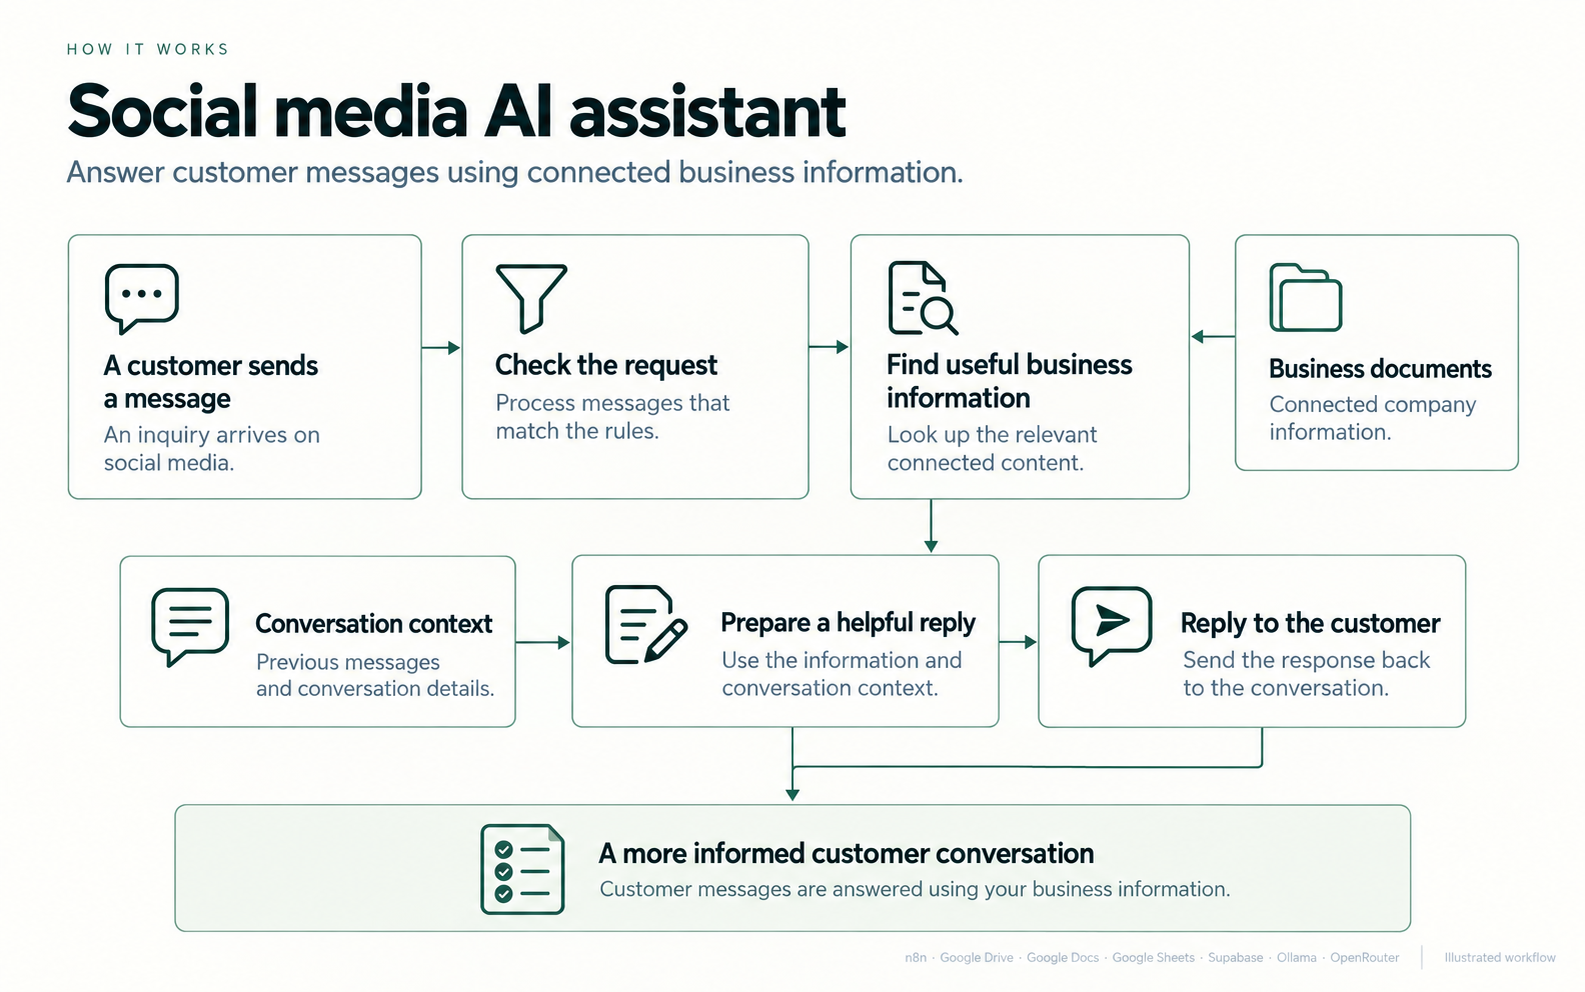
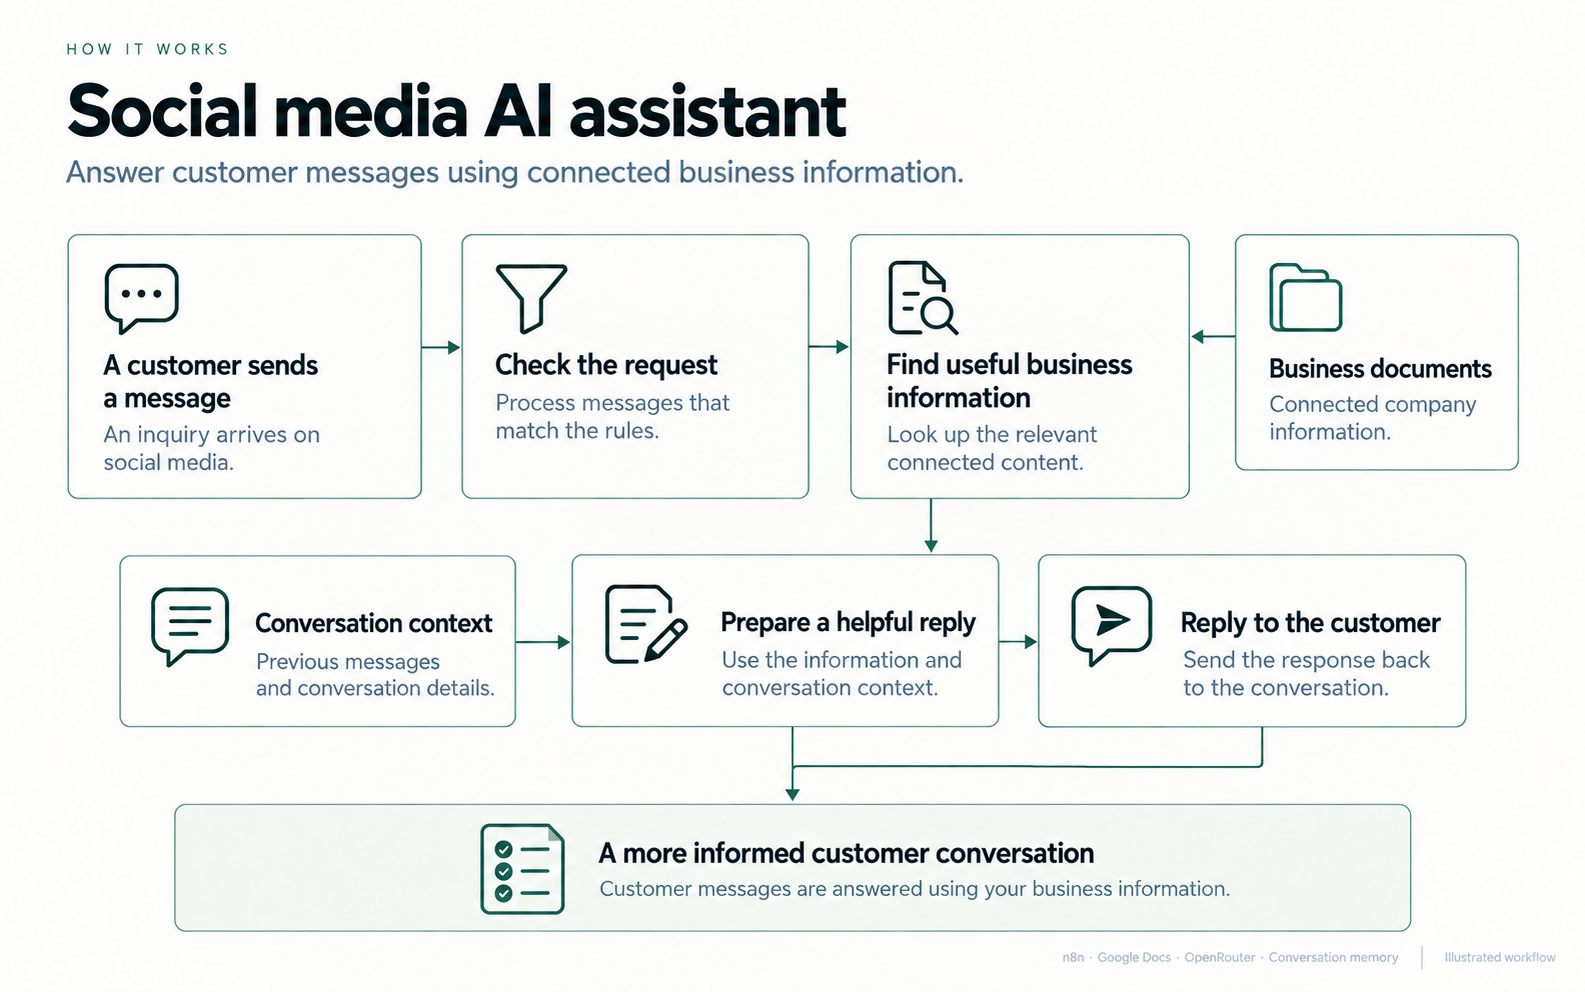
Add full workflow illustrations to all case study pages

diff --git a/src/content/workflow-illustrations.ts b/src/content/workflow-illustrations.ts
@@ -1,0 +1,101 @@
+/** Client-friendly illustrations shared by the portfolio routes and standalone demos. */
+export const WORKFLOW_STYLESHEET_PATH = '/styles/workflow-illustration.css'
+
+type WorkflowIllustration = {
+  title: string
+  src: string
+  width: number
+  height: number
+  summary: string
+}
+
+export const workflowIllustrations: Record<string, WorkflowIllustration> = {
+  "site-1": {
+    title: "AI Receptionist",
+    src: "/images/workflows/ai-receptionist-portfolio.png",
+    width: 1586,
+    height: 992,
+    summary: "A customer calls, checks available times, and books, reschedules, or cancels an appointment. The calendar and records are updated.",
+  },
+  "site-2": {
+    title: "Asana CRM Lead Engagement",
+    src: "/images/workflows/asana-crm-lead-engagement-portfolio.png",
+    width: 1586,
+    height: 992,
+    summary: "An Asana lead status change starts the appropriate next step: client setup, a follow-up, a welcome email, or service recommendations.",
+  },
+  "site-3": {
+    title: "Social Media AI Assistant",
+    src: "/images/workflows/social-media-ai-assistant-portfolio.png",
+    width: 1585,
+    height: 992,
+    summary: "An incoming message is checked, relevant business documents are consulted, and a reply is prepared using the conversation context.",
+  },
+  "site-4": {
+    title: "Automated Lead Enrichment",
+    src: "/images/workflows/automated-lead-enrichment-portfolio.png",
+    width: 1586,
+    height: 992,
+    summary: "Lead details are researched and assessed, then routed to priority follow-up, a team notification, or manual review.",
+  },
+  "site-5": {
+    title: "Gmail Attachment Organizer",
+    src: "/images/workflows/gmail-attachment-organizer-portfolio.png",
+    width: 1586,
+    height: 992,
+    summary: "Email attachments are read, given clear filenames, saved to Google Drive, logged in a spreadsheet, and followed by an email notification.",
+  },
+  "site-6": {
+    title: "Social Media Content Repurposing",
+    src: "/images/workflows/social-media-content-repurposing-portfolio.png",
+    width: 1586,
+    height: 992,
+    summary: "A source file becomes a transcript and post drafts. Content checks and publishing rules determine which posts are sent to Facebook.",
+  },
+  "site-7": {
+    title: "Xero Transaction Export to Asana",
+    src: "/images/workflows/xero-transaction-export-to-asana-portfolio.png",
+    width: 1586,
+    height: 992,
+    summary: "A completed Asana task starts a Xero transaction export. The details are organized in a spreadsheet, attached to the related task, and the temporary rows are cleared.",
+  },
+  "site-8": {
+    title: "HR Job Posting and Candidate Review Assistant",
+    src: "/images/workflows/hr-candidate-review-assistant-portfolio.png",
+    width: 1586,
+    height: 992,
+    summary: "Applications are compared with role requirements. Potential matches move through questions, email, and interview scheduling; applicant records support the hiring team’s review.",
+  },
+  "site-9": {
+    title: "RAG-Powered AI Assistant",
+    src: "/images/workflows/rag-powered-ai-assistant-portfolio.png",
+    width: 1586,
+    height: 992,
+    summary: "Document changes keep reference information current. When a question arrives, the assistant finds relevant information and uses it to prepare an answer.",
+  },
+}
+
+const escapeHtml = (value: string) => value.replaceAll('&', '&amp;').replaceAll('<', '&lt;').replaceAll('>', '&gt;').replaceAll('"', '&quot;')
+
+/** Keep one section template for the SPA and emitted standalone HTML. */
+export function withWorkflowIllustration(source: string, id: string): string {
+  const illustration = workflowIllustrations[id]
+  if (!illustration || source.includes('id="workflow-illustration"')) return source
+  const title = escapeHtml(illustration.title)
+  const section = `
+      <section class="panel workflow-illustration" id="workflow-illustration" aria-labelledby="workflow-illustration-title">
+        <p class="eyebrow">Workflow overview</p>
+        <h2 class="workflow-illustration__title" id="workflow-illustration-title">How it works</h2>
+        <p class="workflow-illustration__intro">Follow the main steps from start to finish.</p>
+        <figure class="workflow-illustration__figure">
+          <a class="workflow-illustration__frame" href="${illustration.src}" target="_blank" rel="noopener noreferrer" aria-label="Open full-size ${title} illustration (new tab)">
+            <img src="${illustration.src}" width="${illustration.width}" height="${illustration.height}" loading="lazy" decoding="async" alt="Client-friendly workflow overview for ${title}" />
+            <span class="workflow-illustration__open">Open full-size illustration <svg width="16" height="16" viewBox="0 0 24 24" fill="none" stroke="currentColor" stroke-width="1.75" stroke-linecap="round" stroke-linejoin="round" aria-hidden="true"><path d="M14 4h6v6M20 4L10 14" /><path d="M20 14v6H4V4h6" /></svg></span>
+          </a>
+          <figcaption class="workflow-illustration__caption">${escapeHtml(illustration.summary)}</figcaption>
+        </figure>
+      </section>`
+  return source
+    .replace('</head>', `    <link rel="stylesheet" href="${WORKFLOW_STYLESHEET_PATH}" />\n  </head>`)
+    .replace('</header>', `</header>\n${section}`)
+}

diff --git a/scripts/case-study-demos.ts b/scripts/case-study-demos.ts
@@ -1,6 +1,7 @@
 import { readFileSync, readdirSync } from 'node:fs'
 import { fileURLToPath } from 'node:url'
 import type { Plugin } from 'vite'
+import { withWorkflowIllustration, WORKFLOW_STYLESHEET_PATH } from '../src/content/workflow-illustrations.ts'
 
 /** Serve and publish the canonical case-study documents at their original demo URLs.
  * The portfolio imports the same files as lazy raw modules, so copy edits have one source.
@@ -8,12 +9,17 @@ import type { Plugin } from 'vite'
 export function caseStudyDemos(): Plugin {
   const directory = new URL('../src/content/case-studies/', import.meta.url)
   const files = readdirSync(directory).filter((file) => /^site-\d+\.html$/.test(file))
-  const read = (file: string) => readFileSync(new URL(file, directory), 'utf8')
+  const stylesheet = new URL('../src/features/case-study/workflow-illustration.css', import.meta.url)
+  const read = (file: string) => withWorkflowIllustration(readFileSync(new URL(file, directory), 'utf8'), file.replace(/\.html$/, ''))
   return {
     name: 'case-study-demos',
     configureServer(server) {
       server.middlewares.use((request, response, next) => {
         const path = new URL(request.url ?? '/', 'http://localhost').pathname
+        if (path === WORKFLOW_STYLESHEET_PATH) {
+          response.setHeader('Content-Type', 'text/css; charset=utf-8')
+          return response.end(readFileSync(stylesheet, 'utf8'))
+        }
         const file = /^\/demos\/sites\/(site-\d+\.html)$/.exec(path)?.[1]
         if (!file || !files.includes(file)) return next()
         response.setHeader('Content-Type', 'text/html; charset=utf-8')
@@ -21,9 +27,11 @@ export function caseStudyDemos(): Plugin {
       })
     },
     buildStart() {
+      this.addWatchFile(fileURLToPath(stylesheet))
       files.forEach((file) => this.addWatchFile(fileURLToPath(new URL(file, directory))))
     },
     generateBundle() {
+      this.emitFile({ type: 'asset', fileName: WORKFLOW_STYLESHEET_PATH.slice(1), source: readFileSync(stylesheet, 'utf8') })
       files.forEach((file) => this.emitFile({ type: 'asset', fileName: `demos/sites/${file}`, source: read(file) }))
     },
   }

diff --git a/src/features/case-study/workflow-illustration.css b/src/features/case-study/workflow-illustration.css
@@ -1,0 +1,62 @@
+/* Shared with standalone demos. Keep the complete image in a frame; never crop it. */
+.workflow-illustration {
+  margin-block: 24px;
+  color: var(--ink);
+  scroll-margin-top: 72px;
+}
+.workflow-illustration__title {
+  margin: 6px 0 0;
+  font-size: clamp(22px, 3vw, 30px);
+  font-weight: 600;
+  line-height: 1.2;
+  letter-spacing: -0.025em;
+}
+.workflow-illustration__intro {
+  margin: 10px 0 20px;
+  color: var(--ink-2);
+  font-size: 15px;
+  line-height: 1.6;
+}
+.workflow-illustration__figure { margin: 0; }
+.workflow-illustration__frame {
+  display: block;
+  overflow: hidden;
+  border: 1px solid var(--line-strong);
+  border-radius: var(--radius-md);
+  background: var(--surface-2);
+  color: var(--ink);
+  text-decoration: none;
+}
+.workflow-illustration__frame > img {
+  display: block;
+  width: 100%;
+  max-width: 100%;
+  height: auto;
+  object-fit: contain;
+  background: #fff;
+}
+.workflow-illustration__frame:hover { border-color: var(--accent); }
+.workflow-illustration__frame:focus-visible { outline: 2px solid var(--accent); outline-offset: 4px; }
+.workflow-illustration__open {
+  display: flex;
+  align-items: center;
+  justify-content: flex-end;
+  gap: 8px;
+  min-height: 44px;
+  padding: 10px 14px;
+  color: var(--ink);
+  font-size: 13px;
+  font-weight: 600;
+  line-height: 1.5;
+}
+.workflow-illustration__open > svg { flex: none; }
+.workflow-illustration__caption {
+  max-width: 75ch;
+  margin: 14px 0 0;
+  color: var(--ink-2);
+  font-size: 14px;
+  line-height: 1.65;
+}
+@media (max-width: 700px) {
+  .workflow-illustration__open { justify-content: center; text-align: center; }
+}

diff --git a/src/features/case-study/case-study-loader.ts b/src/features/case-study/case-study-loader.ts
@@ -1,4 +1,5 @@
 import type { LoaderFunctionArgs } from 'react-router'
+import { withWorkflowIllustration } from '@/content/workflow-illustrations'
 import { sampleSites } from '@/content/work'
 
 // Each full authored document is the single source for its standalone demo and portfolio page.
@@ -10,5 +11,5 @@ const documents = import.meta.glob<string>('../../content/case-studies/*.html', 
 export async function caseStudyLoader({ params }: LoaderFunctionArgs) {
   const study = sampleSites.find((item) => item.id === params.project)
   const load = study ? documents[`../../content/case-studies/${study.id}.html`] : undefined
-  return { study, document: load ? await load() : '' }
+  return { study, document: load && study ? withWorkflowIllustration(await load(), study.id) : '' }
 }

diff --git a/src/features/case-study/CaseStudyPage.tsx b/src/features/case-study/CaseStudyPage.tsx
@@ -6,6 +6,7 @@ import { caseStudyPath } from '@/content/work'
 import { site } from '@/content/site'
 import type { caseStudyLoader } from './case-study-loader'
 import './case-study.css'
+import './workflow-illustration.css'
 
 export function CaseStudyPage() {
   const { study, document: source } = useLoaderData<typeof caseStudyLoader>()

diff --git a/public/images/workflows/README.md b/public/images/workflows/README.md
@@ -8,7 +8,7 @@ These are simplified explanations, not execution screenshots or measured results
 |---|---|---|
 | AI Receptionist | [View / download](ai-receptionist-portfolio.png) | n8n, Vapi, Google Calendar |
 | Asana CRM Lead Engagement | [View / download](asana-crm-lead-engagement-portfolio.png) | Zapier, Google Drive, Asana, Gmail, AI by Zapier |
-| Social Media AI Agent with RAG | [View / download](social-media-ai-assistant-portfolio.png) | n8n, Google Drive, Google Sheets, Google Docs, Supabase, AI Agent, Ollama, OpenRouter |
+| Social Media AI Assistant | [View / download](social-media-ai-assistant-portfolio.png) | n8n, Google Docs, OpenRouter, conversation memory |
 | Automated Lead Enrichment | [View / download](automated-lead-enrichment-portfolio.png) | Zapier, Gmail, Google Sheets, Slack, AI by Zapier |
 | Gmail Attachment Organizer | [View / download](gmail-attachment-organizer-portfolio.png) | Make, Gmail, Google Drive, Google Sheets, Gemini |
 | Social Media Content Repurposing | [View / download](social-media-content-repurposing-portfolio.png) | Zapier, Google Drive, Facebook, AI by Zapier |
@@ -37,11 +37,11 @@ These are simplified explanations, not execution screenshots or measured results
 </details>
 
 <details>
-<summary>Social Media AI Agent with RAG</summary>
+<summary>Social Media AI Assistant</summary>
 
-[![Social Media AI Agent with RAG — illustrated workflow](social-media-ai-assistant-portfolio.png)](social-media-ai-assistant-portfolio.png)
+[![Social Media AI Assistant — illustrated workflow](social-media-ai-assistant-portfolio.png)](social-media-ai-assistant-portfolio.png)
 
-**Tools:** n8n, Google Drive, Google Sheets, Google Docs, Supabase, AI Agent, Ollama, OpenRouter
+**Tools:** n8n, Google Docs, OpenRouter, conversation memory
 
 </details>
 

diff --git a/README.md b/README.md
@@ -129,3 +129,9 @@ CHROMIUM_PATH=/usr/bin/chromium npm run check:case-studies
 ```
 
 Omit `CHROMIUM_PATH` when using Playwright’s installed browser. Set `BASE` when using a different dev/preview port. The case study check covers nine projects at three widths in both themes, calculators, theme persistence and browser history. Template-specific checks such as Showcase and Proof remain in source for when those features are restored. Production CSP and responsive checks live in `scripts/audit/`.
+
+### Case study illustrations
+
+Every case study includes a client-facing “How it works” illustration immediately after its introduction. `src/content/workflow-illustrations.ts` maps the nine projects to their PNGs and provides readable text summaries. Its shared renderer adds the same section to the app and standalone demos. Layout styles live in `src/features/case-study/workflow-illustration.css`; Vite emits the shared standalone stylesheet at `/styles/workflow-illustration.css`.
+
+Images keep their complete aspect ratio and open at full size in a separate tab. The surrounding section follows the site theme; the illustrations retain their original light canvas. Original technical screenshot placeholders remain hidden for future use. Site 3 is **Social Media AI Assistant**; site 9 is the separate **RAG-Powered AI Assistant**. The workflow gallery is in `public/images/workflows/README.md`.
